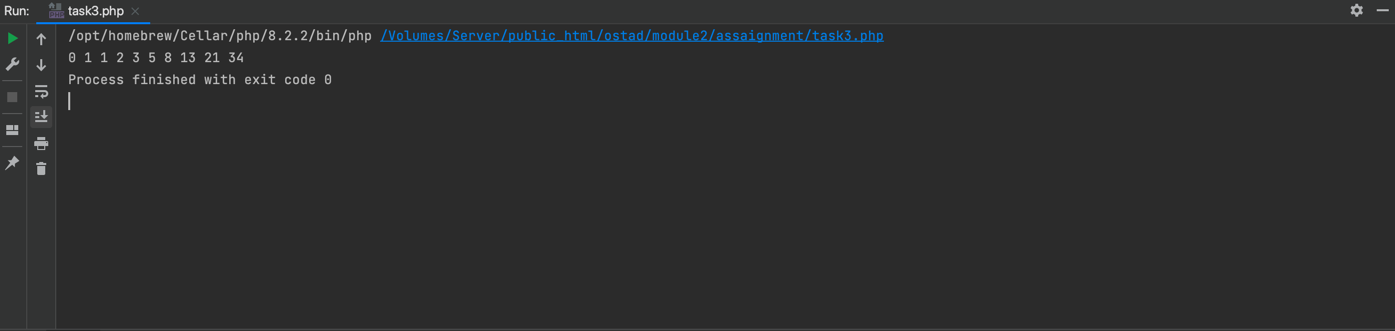
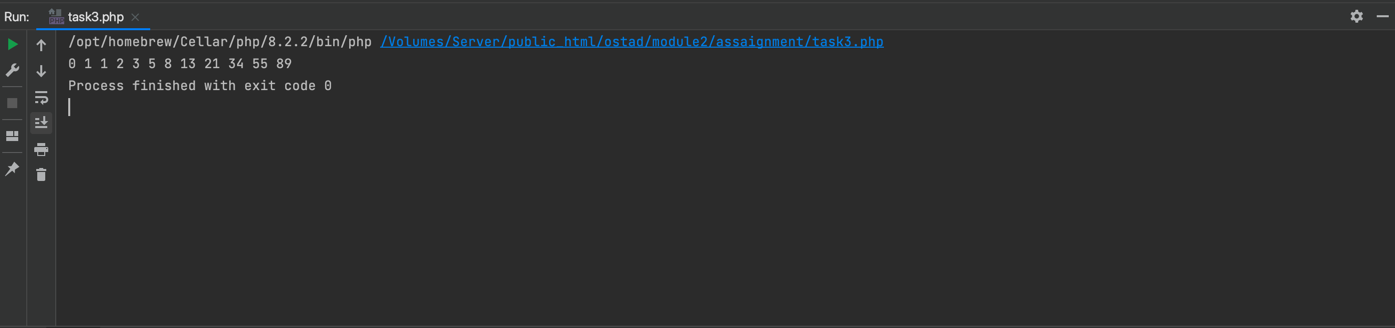
Ostad

Changed region(s): [[0.0, 0.0, 0.6473, 0.5488], [0.9556, 0.0, 1.0, 0.061]]

diff --git a/module2/assaignment/task3.php b/module2/assaignment/task3.php
@@ -4,7 +4,7 @@
 // Write a PHP program that calculates and prints the first 10 Fibonacci numbers. But, if a
 // Fibonacci number is greater than 100, break out of the loop using the break statement.
 
-$limit = 10; // Maximum print Fibonacci numbers
+$limit = 100; // Maximum print Fibonacci numbers
 
 $previous = 0;
 $current = 1;
